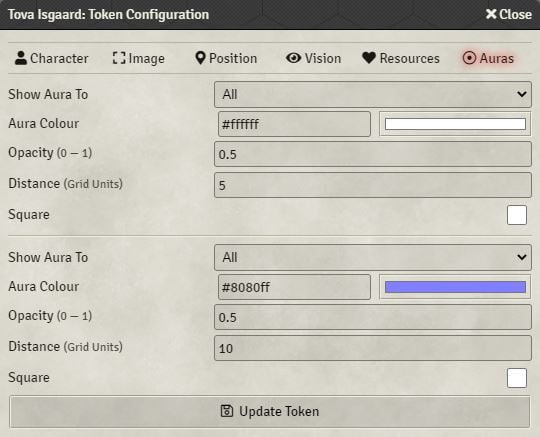
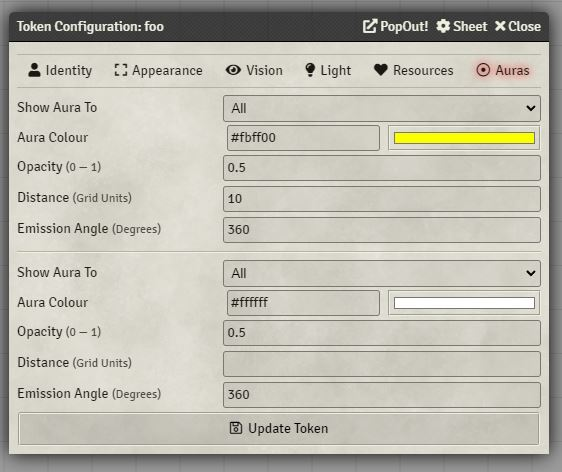
Update details

diff --git a/README.md b/README.md
@@ -1,19 +1,23 @@
 # Token Auras
 A [FoundryVTT](https://foundryvtt.com) module for configuring token auras. Auras are visual only, but should work in any system and can be used as a basis to build more advanced features on top of. The module adds configuration options for up to two auras to the token configuration dialog, and additional auras can be added programmatically, with no limit.
 
-![Example token configuration](https://bitbucket.org/Fyorl/token-auras/raw/master/example-config.jpg)
+Expanded on work done by [Kim Mantas](https://bitbucket.org/Fyorl/token-auras).
 
-![Example aura visuals](https://bitbucket.org/Fyorl/token-auras/raw/master/example-aura.jpg)
+![Example token configuration](https://github.com/crcroberts/radial-token-auras/blob/master/example-config.jpg)
+
+![Example aura visuals](https://github.com/crcroberts/radial-token-auras/blob/master/example-aura.jpg)
+
+
 
 ## API
 
 Aura objects have the following properties:
 ```js
 {
+    angle: number, // The angle (in degrees) for the aura to occupy. The semicircular aura is centered on a position directly to the tokens 'south', and rotates with the token
     distance: number|null, // The radius (in grid units) of the aura.
     colour: string, // An HTML hexadecimal colour.
     opacity: number, // The opacity of the aura between 0 and 1.
-    square: boolean, // The aura is square if true, otherwise it is circular.
     permission: string, // The permission level required to see this aura.
     uuid: string // A unique identifier for every aura.
 }
